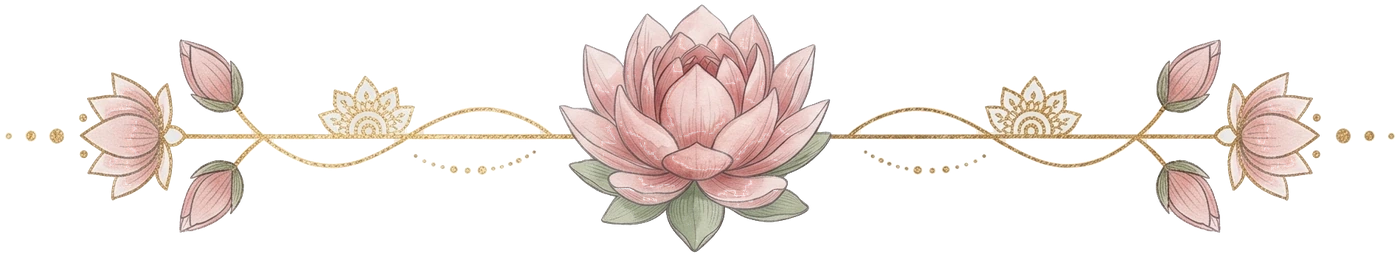
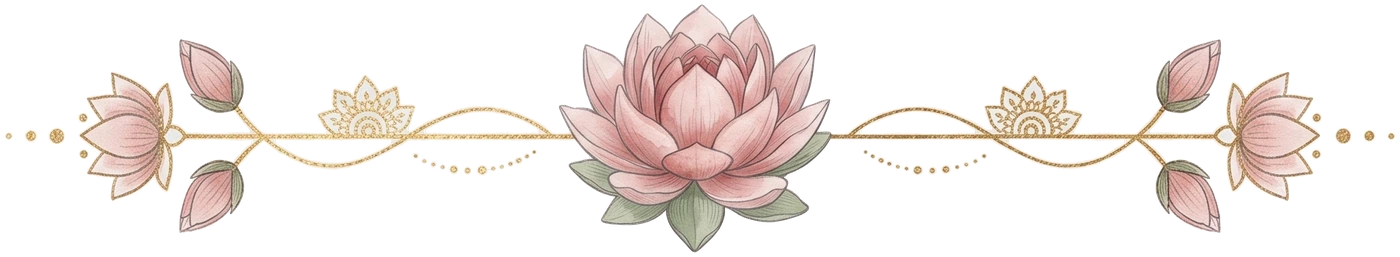
Envelope: Ganesh above, Vakratunda shloka below the seal; hanging lotus ornaments beside the arch

diff --git a/src/components/Intro.tsx b/src/components/Intro.tsx
@@ -30,10 +30,19 @@ export function Intro({ onOpen }: { onOpen: () => void }) {
       <div ref={bottom} className="envelope-flap-lower absolute inset-x-0 bottom-0 h-1/2 border-t border-gold-light/30" />
 
       <div ref={content} className="text-cream">
-        <div className="absolute inset-x-0 top-0 flex h-1/2 flex-col items-center justify-center gap-3 px-6 pb-[min(19vw,5rem)] text-center">
-          <Ganesh className="w-[min(34vw,9rem,18svh)] text-gold-light drop-shadow-[0_6px_18px_rgb(0_0_0/0.35)]" />
-          <p className="mt-2 font-display text-2xl text-gold-light">{invite.invocation}</p>
-          <p className="text-lg opacity-80">तपाईंलाई हार्दिक निमन्त्रणा</p>
+        {/* Top flap: Ganesh. Bottom flap: shloka and invocation, below the seal. */}
+        <div className="absolute inset-x-0 top-0 flex h-1/2 items-center justify-center pb-[min(19vw,5rem)]">
+          <Ganesh className="w-[min(40vw,11rem,22svh)] text-gold-light drop-shadow-[0_6px_18px_rgb(0_0_0/0.35)]" />
+        </div>
+        <div className="absolute inset-x-0 bottom-0 flex h-1/2 flex-col items-center justify-center gap-4 px-6 pt-[min(19vw,5rem)] text-center">
+          <p className="font-display text-lg leading-relaxed text-gold-light/90 sm:text-xl">
+            {invite.shloka.map((line) => (
+              <span key={line} className="block">
+                {line}
+              </span>
+            ))}
+          </p>
+          <p className="font-display text-2xl text-gold-light">{invite.invocation}</p>
         </div>
       </div>
 

diff --git a/src/components/Sections.tsx b/src/components/Sections.tsx
@@ -6,7 +6,7 @@ import maroonBottom from '../assets/frame/maroon-bottom.webp'
 import maroonMid from '../assets/frame/maroon-mid.webp'
 import maroonTop from '../assets/frame/maroon-top.webp'
 import { invite } from '../config'
-import { Band, Divider } from './Ornaments'
+import { Band, Divider, Hanging } from './Ornaments'
 
 function Section({ children, className = '' }: { children: ReactNode; className?: string }) {
   return (
@@ -34,6 +34,9 @@ export function Hero() {
   return (
     <header className="relative min-h-svh overflow-hidden pb-16">
       <Band />
+      {/* A pair of hanging lotus ornaments either side of the arch. */}
+      <Hanging className="absolute top-5 left-[2%] z-10 w-[11vw] max-w-[4.5rem] sm:left-[8%]" />
+      <Hanging className="absolute top-5 right-[2%] z-10 w-[11vw] max-w-[4.5rem] [animation-delay:-1.5s] sm:right-[8%]" />
       <div
         className="relative mx-auto mt-10 flex flex-col items-center px-[calc(var(--w)*0.13)] pt-[calc(var(--w)*0.5)] pb-[calc(var(--w)*0.4)] text-center"
         style={

diff --git a/src/components/Ornaments.tsx b/src/components/Ornaments.tsx
@@ -1,6 +1,7 @@
 import type { CSSProperties } from 'react'
 import ganeshUrl from '../assets/ganesh.svg'
 import dividerUrl from '../assets/divider/divider.webp'
+import hangingUrl from '../assets/ornament/hanging.webp'
 import sealUrl from '../assets/seal/seal.webp'
 
 // Our Ganesh line art, drawn as a CSS mask so it takes the current text colour.
@@ -67,4 +68,9 @@ export function Band() {
 // Painted lotus wax seal (our generated art, cut out by scripts/cut-seal.py).
 export function Seal({ className = '' }: { className?: string }) {
   return <img src={sealUrl} alt="" draggable={false} className={`select-none ${className}`} />
+}
+
+// Painted hanging lotus ornament with gold teardrop and tassel (our generated art).
+export function Hanging({ className = '' }: { className?: string }) {
+  return <img src={hangingUrl} alt="" aria-hidden draggable={false} className={`sway pointer-events-none select-none ${className}`} />
 }

diff --git a/src/config.ts b/src/config.ts
@@ -3,6 +3,8 @@
 
 export const invite = {
   invocation: 'श्री गणेशाय नमः',
+  // Shown under the seal on the opening envelope.
+  shloka: ['वक्रतुण्ड महाकाय सूर्यकोटि समप्रभ ।', 'निर्विघ्नं कुरु मे देव सर्वकार्येषु सर्वदा ॥'],
 
   // Aarusha is named first everywhere (names, WhatsApp message, page title).
   partnerOne: { np: 'आरुषा', en: 'Aarusha' },

diff --git a/scripts/cut-painted.py b/scripts/cut-painted.py
@@ -1,15 +1,19 @@
-# Cuts the lotus divider (design/divider.jpeg, our generated art) off its white watercolour paper.
-# Paper is near-neutral; the art is pink, gold, green or pencil-dark, so alpha comes from colour + darkness.
-# Output: src/assets/divider/divider.webp (transparent).
+# Cuts a painted element (our generated art) off its plain watercolour-paper background.
+# Paper is near-neutral; the art is pink, gold, green, maroon or pencil-dark, so alpha comes from colour + darkness.
+# Usage: python3 scripts/cut-painted.py SRC OUT MAX_SIDE
+#   divider:  python3 scripts/cut-painted.py design/divider.jpeg src/assets/divider/divider.webp 1400
+#   ornament: python3 scripts/cut-painted.py design/ornament.jpeg src/assets/ornament/hanging.webp 1400
 from PIL import Image, ImageFilter
 import numpy as np
 from collections import deque
+import sys
 
-SRC, OUT, WIDTH = 'design/divider.jpeg', 'src/assets/divider/divider.webp', 1400
+SRC, OUT, MAX_SIDE = sys.argv[1], sys.argv[2], int(sys.argv[3])
 im = Image.open(SRC).convert('RGB')
 a = np.asarray(im).astype(np.float32)
-# Paper colour varies with the texture, so estimate it locally with a wide median-ish blur.
-paper = np.asarray(im.filter(ImageFilter.GaussianBlur(40))).astype(np.float32)
+# Paper colour: median of the plain border (a local blur would pick up colour from large painted areas).
+border = np.concatenate([a[:60].reshape(-1, 3), a[-60:].reshape(-1, 3), a[:, :60].reshape(-1, 3), a[:, -60:].reshape(-1, 3)])
+paper = np.broadcast_to(np.median(border, axis=0), a.shape).astype(np.float32)
 chroma = a.max(-1) - a.min(-1)
 pchroma = paper.max(-1) - paper.min(-1)
 lum = 0.299 * a[..., 0] + 0.587 * a[..., 1] + 0.114 * a[..., 2]
@@ -51,6 +55,7 @@ for sy in range(H):
 al = np.maximum(alpha, 1e-3)[..., None]
 rgb = np.clip((a - (1 - al) * paper) / al, 0, 255)
 out = Image.fromarray(np.dstack([rgb, alpha * 255]).astype(np.uint8))
-out = out.resize((WIDTH, round(out.height * WIDTH / out.width)), Image.LANCZOS)
+k = min(1, MAX_SIDE / max(out.size))
+out = out.resize((round(out.width * k), round(out.height * k)), Image.LANCZOS)
 out.save(OUT, 'WEBP', quality=92, method=6)
 print(OUT, im.size, '->', out.size)

diff --git a/README.md b/README.md
@@ -32,6 +32,7 @@ Every push to `main` builds and deploys via `.github/workflows/deploy.yml`.
 - `src/assets/frame/arch-{top,mid,bottom}.webp`: our generated arched lotus card (`design/frame-arch-hires.jpeg`), cut out and sliced (top / stretchable middle / bottom) by `scripts/cut-frame.py`.
 - Dividers, border pattern: hand-drawn SVG in `src/components/Ornaments.tsx`.
 - `src/assets/seal/seal.webp`: our generated lotus wax seal (`design/seal.jpg`), cut out by `scripts/cut-seal.py`.
-- `src/assets/divider/divider.webp`: our generated lotus-and-gold-vine divider (`design/divider.jpeg`), cut out by `scripts/cut-divider.py`.
+- `src/assets/divider/divider.webp`: our generated lotus-and-gold-vine divider (`design/divider.jpeg`), cut out by `scripts/cut-painted.py`.
 - `src/assets/frame/maroon-{top,mid,bottom}.webp`: our generated maroon arched card (`design/frame-maroon.jpeg`), cut out and sliced by `scripts/cut-maroon.py`.
 - `src/assets/envelope/paper.webp`: our generated maroon damask envelope paper (`design/envelope.jpeg`), resized to 1600 px.
+- `src/assets/ornament/hanging.webp`: our generated hanging lotus ornament (`design/ornament.jpeg`), cut out by `scripts/cut-painted.py`.
